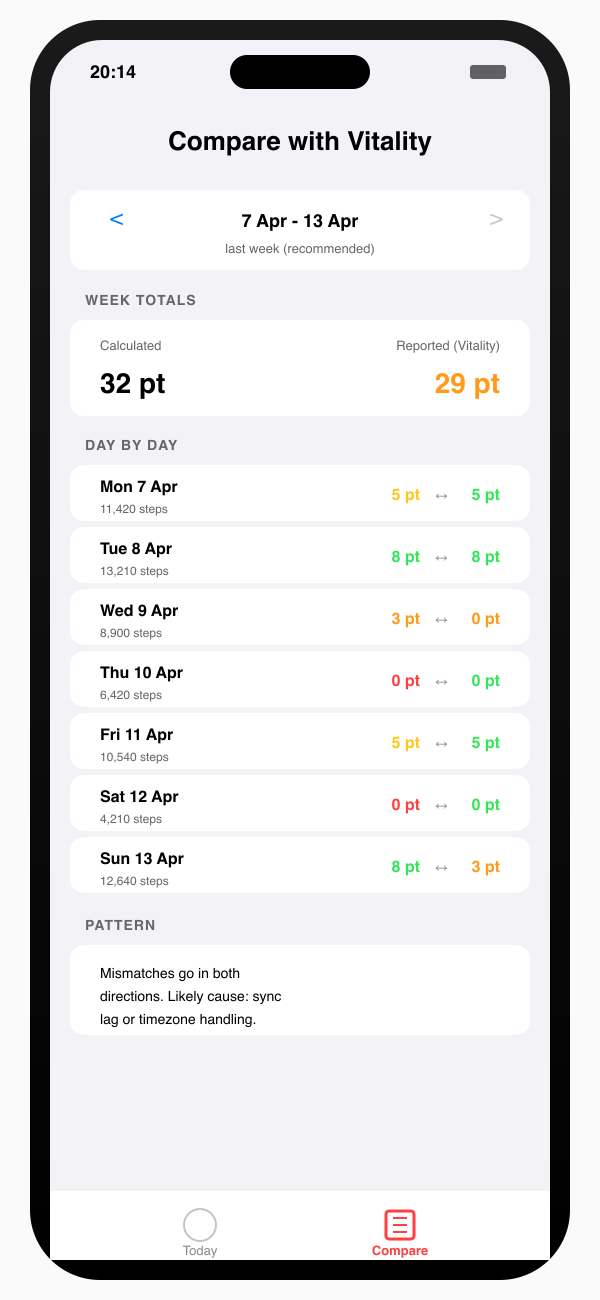
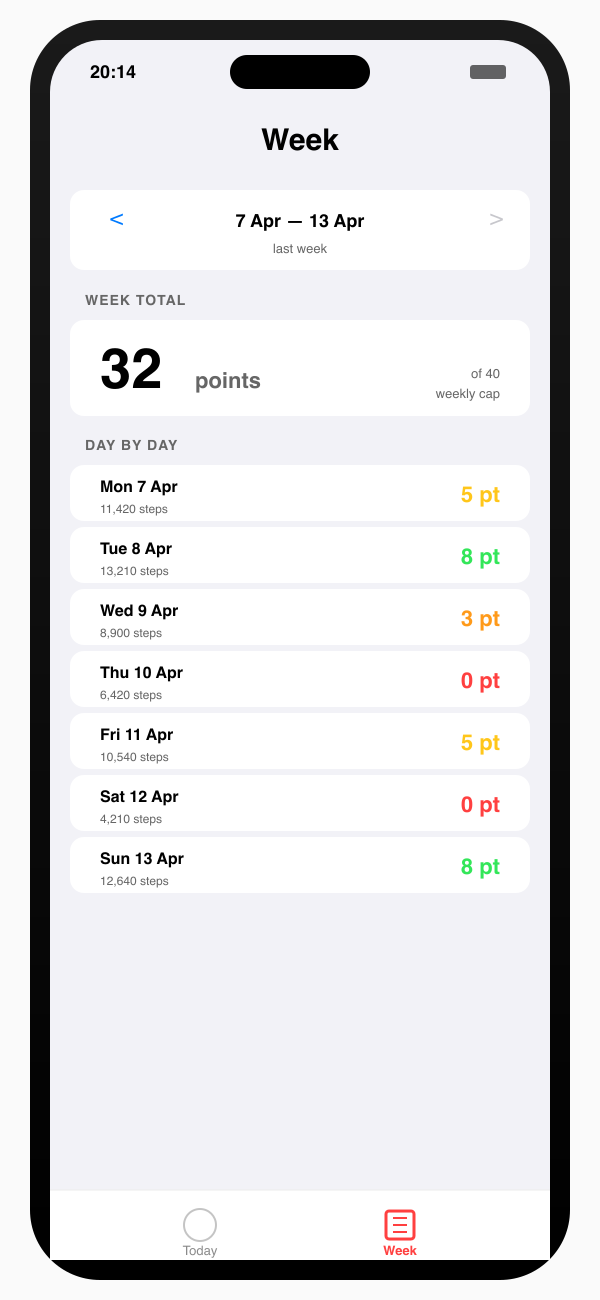
Simplify Compare tab to a read-only 'Week' view
- Tab label: Compare -> Week (still uses the chart.bar icon)
- Nav title: 'Compare with Vitality' -> 'Week'
- Drop the tap-to-edit sheet for entering Vitality-reported points
- Drop the two-column Calculated/Reported totals; just show the
  calculated week total and mention the 40-point weekly cap
- Drop the Pattern hint section and the help note at the bottom
- Day rows now just show date, step count, and points earned in
  the earned-points tier colour (red/orange/yellow/green)
- Regenerated the website iphone-compare.png mockup to match

Core ReconciliationStore, ReconciliationEntry.reported, and the
Pattern enum remain in EightfulCore for future use (e.g. when
the SAR data arrives and we can wire an automated compare).

diff --git a/App/iOS/ReconciliationView.swift b/App/iOS/ReconciliationView.swift
@@ -2,9 +2,8 @@ import SwiftUI
 import EightfulCore
 
 struct ReconciliationView: View {
-    @StateObject private var store = ReconciliationStore.shared
     @StateObject private var settingsStore = SettingsStore.shared
-    @State private var weekOffset: Int = -1   // default: last week (lag-safe)
+    @State private var weekOffset: Int = -1   // default: last week
     @State private var week: WeekReconciliation?
     @State private var loading: Bool = false
 
@@ -24,15 +23,13 @@ struct ReconciliationView: View {
             List {
                 weekPickerSection
                 if let week {
-                    summarySection(week)
+                    totalSection(week)
                     daysSection(week)
-                    patternSection(week)
                 } else if loading {
                     Section { ProgressView() }
                 }
-                helpSection
             }
-            .navigationTitle("Compare with Vitality")
+            .navigationTitle("Week")
             .task(id: weekOffset) { await load() }
         }
     }
@@ -44,8 +41,8 @@ struct ReconciliationView: View {
                 Spacer()
                 VStack {
                     Text(weekLabel).font(.headline)
-                    Text(weekOffset == 0 ? "this week (data may still be lagging)" :
-                         weekOffset == -1 ? "last week (recommended)" :
+                    Text(weekOffset == 0 ? "this week" :
+                         weekOffset == -1 ? "last week" :
                          "\(abs(weekOffset)) weeks ago")
                     .font(.caption)
                     .foregroundStyle(.secondary)
@@ -57,55 +54,28 @@ struct ReconciliationView: View {
         }
     }
 
-    private func summarySection(_ week: WeekReconciliation) -> some View {
-        Section("Week totals") {
-            HStack {
-                VStack(alignment: .leading) {
-                    Text("Calculated")
-                        .font(.caption).foregroundStyle(.secondary)
-                    Text("\(week.calculatedTotal) pt")
-                        .font(.title3).bold()
-                }
+    private func totalSection(_ week: WeekReconciliation) -> some View {
+        Section("Week total") {
+            HStack(alignment: .firstTextBaseline) {
+                Text("\(week.calculatedTotal)")
+                    .font(.system(size: 44, weight: .heavy, design: .rounded))
+                Text("points")
+                    .font(.headline)
+                    .foregroundStyle(.secondary)
                 Spacer()
-                VStack(alignment: .trailing) {
-                    Text("Reported (Vitality)")
-                        .font(.caption).foregroundStyle(.secondary)
-                    if let rt = week.reportedTotal {
-                        Text("\(rt) pt")
-                            .font(.title3).bold()
-                            .foregroundStyle(rt == week.calculatedTotal ? .green : .orange)
-                    } else {
-                        Text("\(week.pendingCount) pending")
-                            .foregroundStyle(.secondary)
-                    }
-                }
+                Text("of 40 weekly cap")
+                    .font(.caption)
+                    .foregroundStyle(.secondary)
             }
+            .padding(.vertical, 4)
         }
     }
 
     private func daysSection(_ week: WeekReconciliation) -> some View {
         Section("Day by day") {
             ForEach(week.days, id: \.date) { entry in
-                DayRow(entry: entry) { newVal in
-                    store.set(newVal, for: entry.date)
-                    Task { await load() }
-                }
+                DayRow(entry: entry)
             }
-        }
-    }
-
-    private func patternSection(_ week: WeekReconciliation) -> some View {
-        Section("Pattern") {
-            Text(week.pattern.humanReadable)
-                .font(.callout)
-        }
-    }
-
-    private var helpSection: some View {
-        Section {
-            Text("Open the Vitality Member app's Points Statement, then tap a day above to enter what Vitality shows. Use last week to avoid lag; a 2026-04-18 figure probably isn't final.")
-                .font(.caption)
-                .foregroundStyle(.secondary)
         }
     }
 
@@ -121,14 +91,9 @@ struct ReconciliationView: View {
     private func load() async {
         loading = true
         defer { loading = false }
-        let reports = store.reports
         let w = await HealthKitReader.shared.weekReconciliation(
             containing: currentWeekDate,
             settings: settingsStore.settings,
-            reported: { date in
-                let key = ReconciliationStore.shared.key(for: date, calendar: calendar)
-                return reports[key]
-            },
             calendar: calendar
         )
         await MainActor.run { self.week = w }
@@ -137,24 +102,20 @@ struct ReconciliationView: View {
 
 private struct DayRow: View {
     let entry: ReconciliationEntry
-    let onSet: (Int?) -> Void
-    @State private var showEditor = false
-    @State private var draft: String = ""
 
     var body: some View {
-        Button { showEditor = true } label: {
-            HStack {
-                VStack(alignment: .leading) {
-                    Text(dayLabel).font(.callout).bold()
-                    Text("\(entry.calculated.steps) steps")
-                        .font(.caption).foregroundStyle(.secondary)
-                }
-                Spacer()
-                statusPill
+        HStack(alignment: .center) {
+            VStack(alignment: .leading, spacing: 2) {
+                Text(dayLabel).font(.callout).bold()
+                Text("\(formatted(entry.calculated.steps)) steps")
+                    .font(.caption).foregroundStyle(.secondary)
             }
+            Spacer()
+            Text("\(entry.calculated.points) pt")
+                .font(.system(size: 20, weight: .bold, design: .rounded))
+                .foregroundStyle(entry.calculated.effectiveTier.color)
         }
-        .buttonStyle(.plain)
-        .sheet(isPresented: $showEditor) { editor }
+        .padding(.vertical, 2)
     }
 
     private var dayLabel: String {
@@ -163,57 +124,9 @@ private struct DayRow: View {
         return fmt.string(from: entry.date)
     }
 
-    private var statusPill: some View {
-        HStack(spacing: 10) {
-            Text("\(entry.calculated.points) pt")
-                .foregroundStyle(tierColor(entry.calculated.effectiveTier))
-                .bold()
-            Image(systemName: "arrow.left.arrow.right").font(.caption).foregroundStyle(.secondary)
-            if let r = entry.reported {
-                Text("\(r) pt")
-                    .foregroundStyle(entry.status == .matched ? .green : .orange)
-                    .bold()
-            } else {
-                Text("—")
-                    .foregroundStyle(.secondary)
-            }
-        }
+    private func formatted(_ n: Int) -> String {
+        let f = NumberFormatter()
+        f.numberStyle = .decimal
+        return f.string(from: NSNumber(value: n)) ?? String(n)
     }
-
-    private var editor: some View {
-        NavigationStack {
-            Form {
-                Section("Vitality says") {
-                    TextField("points (0–8)", text: $draft)
-                        .keyboardType(.numberPad)
-                }
-                Section {
-                    Button("Pending (clear value)", role: .destructive) {
-                        onSet(nil)
-                        showEditor = false
-                    }
-                }
-            }
-            .navigationTitle(dayLabel)
-            .navigationBarTitleDisplayMode(.inline)
-            .toolbar {
-                ToolbarItem(placement: .cancellationAction) {
-                    Button("Cancel") { showEditor = false }
-                }
-                ToolbarItem(placement: .confirmationAction) {
-                    Button("Save") {
-                        if let v = Int(draft.trimmingCharacters(in: .whitespaces)), (0...8).contains(v) {
-                            onSet(v)
-                            showEditor = false
-                        }
-                    }
-                }
-            }
-            .onAppear {
-                if let r = entry.reported { draft = String(r) }
-            }
-        }
-    }
-
-    private func tierColor(_ tier: StepTier) -> Color { tier.color }
 }

diff --git a/App/iOS/MainTabView.swift b/App/iOS/MainTabView.swift
@@ -6,7 +6,7 @@ struct MainTabView: View {
             RootView()
                 .tabItem { Label("Today", systemImage: "figure.walk") }
             ReconciliationView()
-                .tabItem { Label("Compare", systemImage: "chart.bar.doc.horizontal") }
+                .tabItem { Label("Week", systemImage: "chart.bar.doc.horizontal") }
         }
     }
 }
